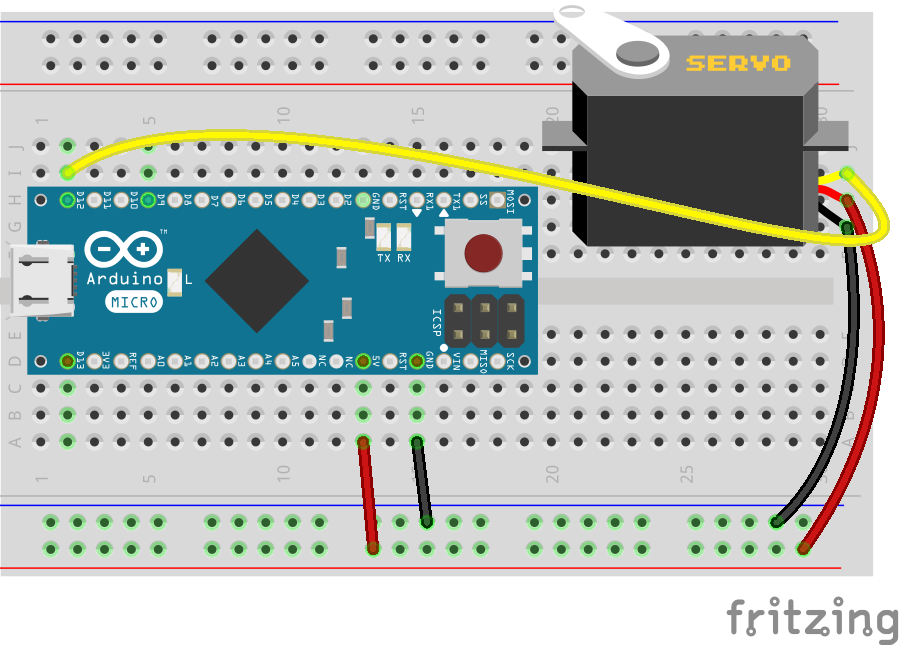
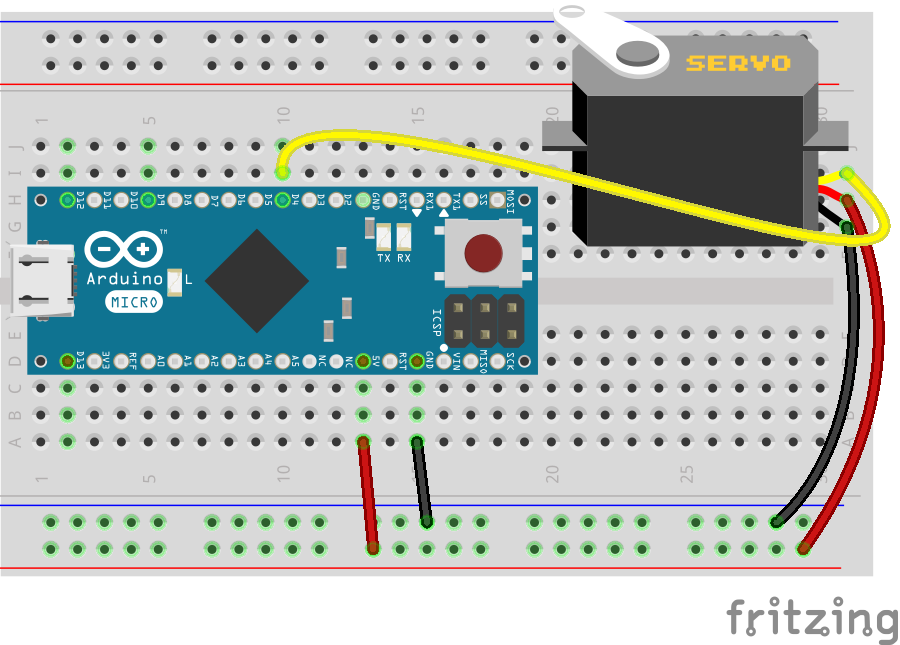
servo and led example added

Changed region(s): [[0.0622, 0.186, 0.9022, 0.3721]]

diff --git a/code/led-pwm.js b/code/led-pwm.js
@@ -1,0 +1,22 @@
+var j5 = require("johnny-five");
+var board, led;
+
+board = new j5.Board();
+
+board.on("ready", function() {
+
+  led = new j5.Led(13)
+
+  led.strobe(1000);
+  // make myLED available as "led" in REPL
+
+  this.repl.inject({
+    led: led
+  });
+
+  console.log("Du kannst mit der LED über die Variable 'led' interagieren.\nGib led.stop() ein um die LED Animation zu stoppen.\Probiere Befehle wie z.B.:\n led.fadeIn()\n led.fadeOut()\nDrücke Control-D zum Beenden.\n");
+  // try "on", "off", "toggle", "brightness",
+  // "fade", "fadeIn", "fadeOut", 
+  // "pulse", "strobe", 
+  // "stop" (stops strobing, pulsing or fading)
+});

diff --git a/code/servo.js b/code/servo.js
@@ -1,0 +1,24 @@
+var five = require("johnny-five");
+var board = new five.Board();
+ 
+
+board.on("ready", function() {
+  var range = [60, 120];   
+  var servo = new five.Servo({
+    pin: 4,
+    range: range,
+    center: true 
+  });
+  var lap = 0;
+
+  servo.sweep();
+
+  board.wait(4000, function() {
+    servo.stop();
+  });
+  
+  this.repl.inject({
+    servo: servo
+  });
+
+});

diff --git a/code/led-matrix-robo-head.js b/code/led-matrix-robo-head.js
@@ -1,7 +1,5 @@
 var five = require("johnny-five");
-var board = new five.Board({
-  port: "COM131"
-}); 
+var board = new five.Board(); 
 
 board.on("ready", function() {
 
